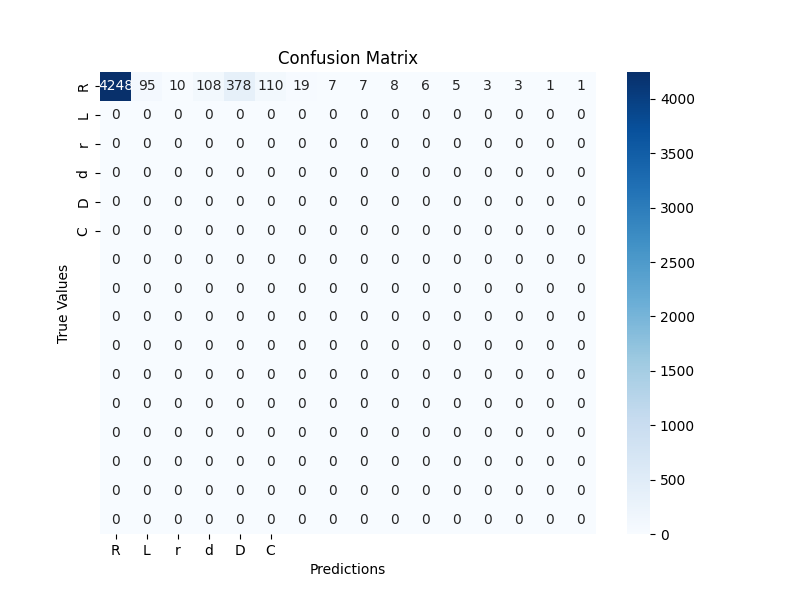
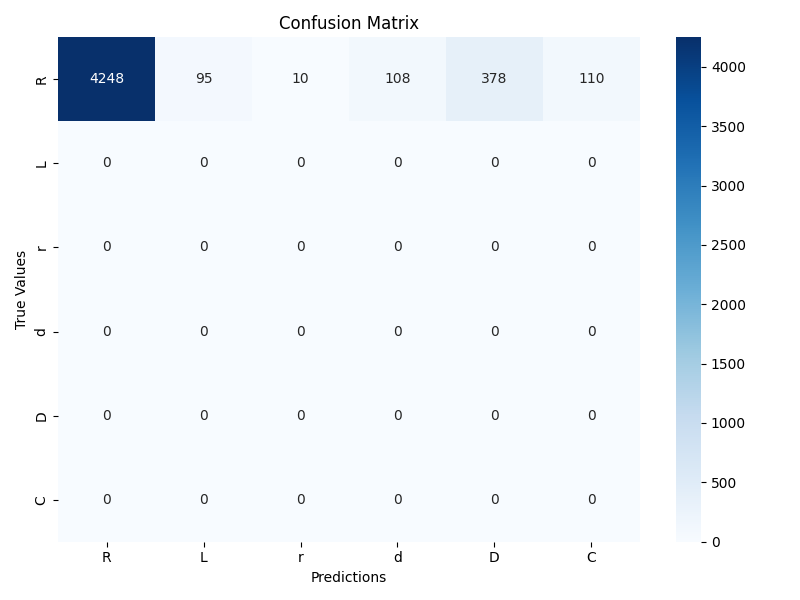
Graphs update

diff --git a/graphs.py b/graphs.py
@@ -31,19 +31,28 @@ plt.savefig("models/accuracy_plot.png")
 plt.show()
 
 #Confusion Matrix
-def graph_matrix(y_true, y_pred, tokenizer):
-    y_pred_classes = np.argmax(y_pred, axis=-1)
-    y_true_classes = np.argmax(y_true, axis=-1)
-    cm = confusion_matrix(y_true_classes.flatten(), y_pred_classes.flatten())
+label_names = ['R', 'L', 'r', 'd', 'D', 'C']
+label_to_index = {label: i for i, label in enumerate(label_names)}
+index_to_label = {i: label for label, i in label_to_index.items()}
+def graph_matrix(y_true, y_pred):
+    y_pred_classes = np.argmax(y_pred, axis=-1).flatten()
+    y_true_classes = np.argmax(y_true, axis=-1).flatten()
+    labels = list(index_to_label.keys())
+    label_names = [index_to_label[i] for i in labels]
+    cm = confusion_matrix(y_true_classes, y_pred_classes, labels=labels)
+
     plt.figure(figsize=(8, 6))
-    sns.heatmap(cm, annot=True, fmt='d', cmap='Blues', xticklabels=tokenizer.word_index.keys(), yticklabels=tokenizer.word_index.keys())
+    sns.heatmap(cm, annot=True, fmt='d', cmap='Blues',
+                xticklabels=label_names, yticklabels=label_names)
     plt.xlabel('Predictions')
     plt.ylabel('True Values')
     plt.title('Confusion Matrix')
+    plt.tight_layout()
     plt.savefig("models/confusion_matrix.png")
     plt.show()
+
 
 tokenizer = joblib.load("models/tokenizer.pkl")
 y_test_classes = np.load('models/y_test.npy')
 y_pred_classes = np.load('models/y_pred.npy')
-graph_matrix(y_test_classes, y_pred_classes, tokenizer)
+graph_matrix(y_test_classes, y_pred_classes)
